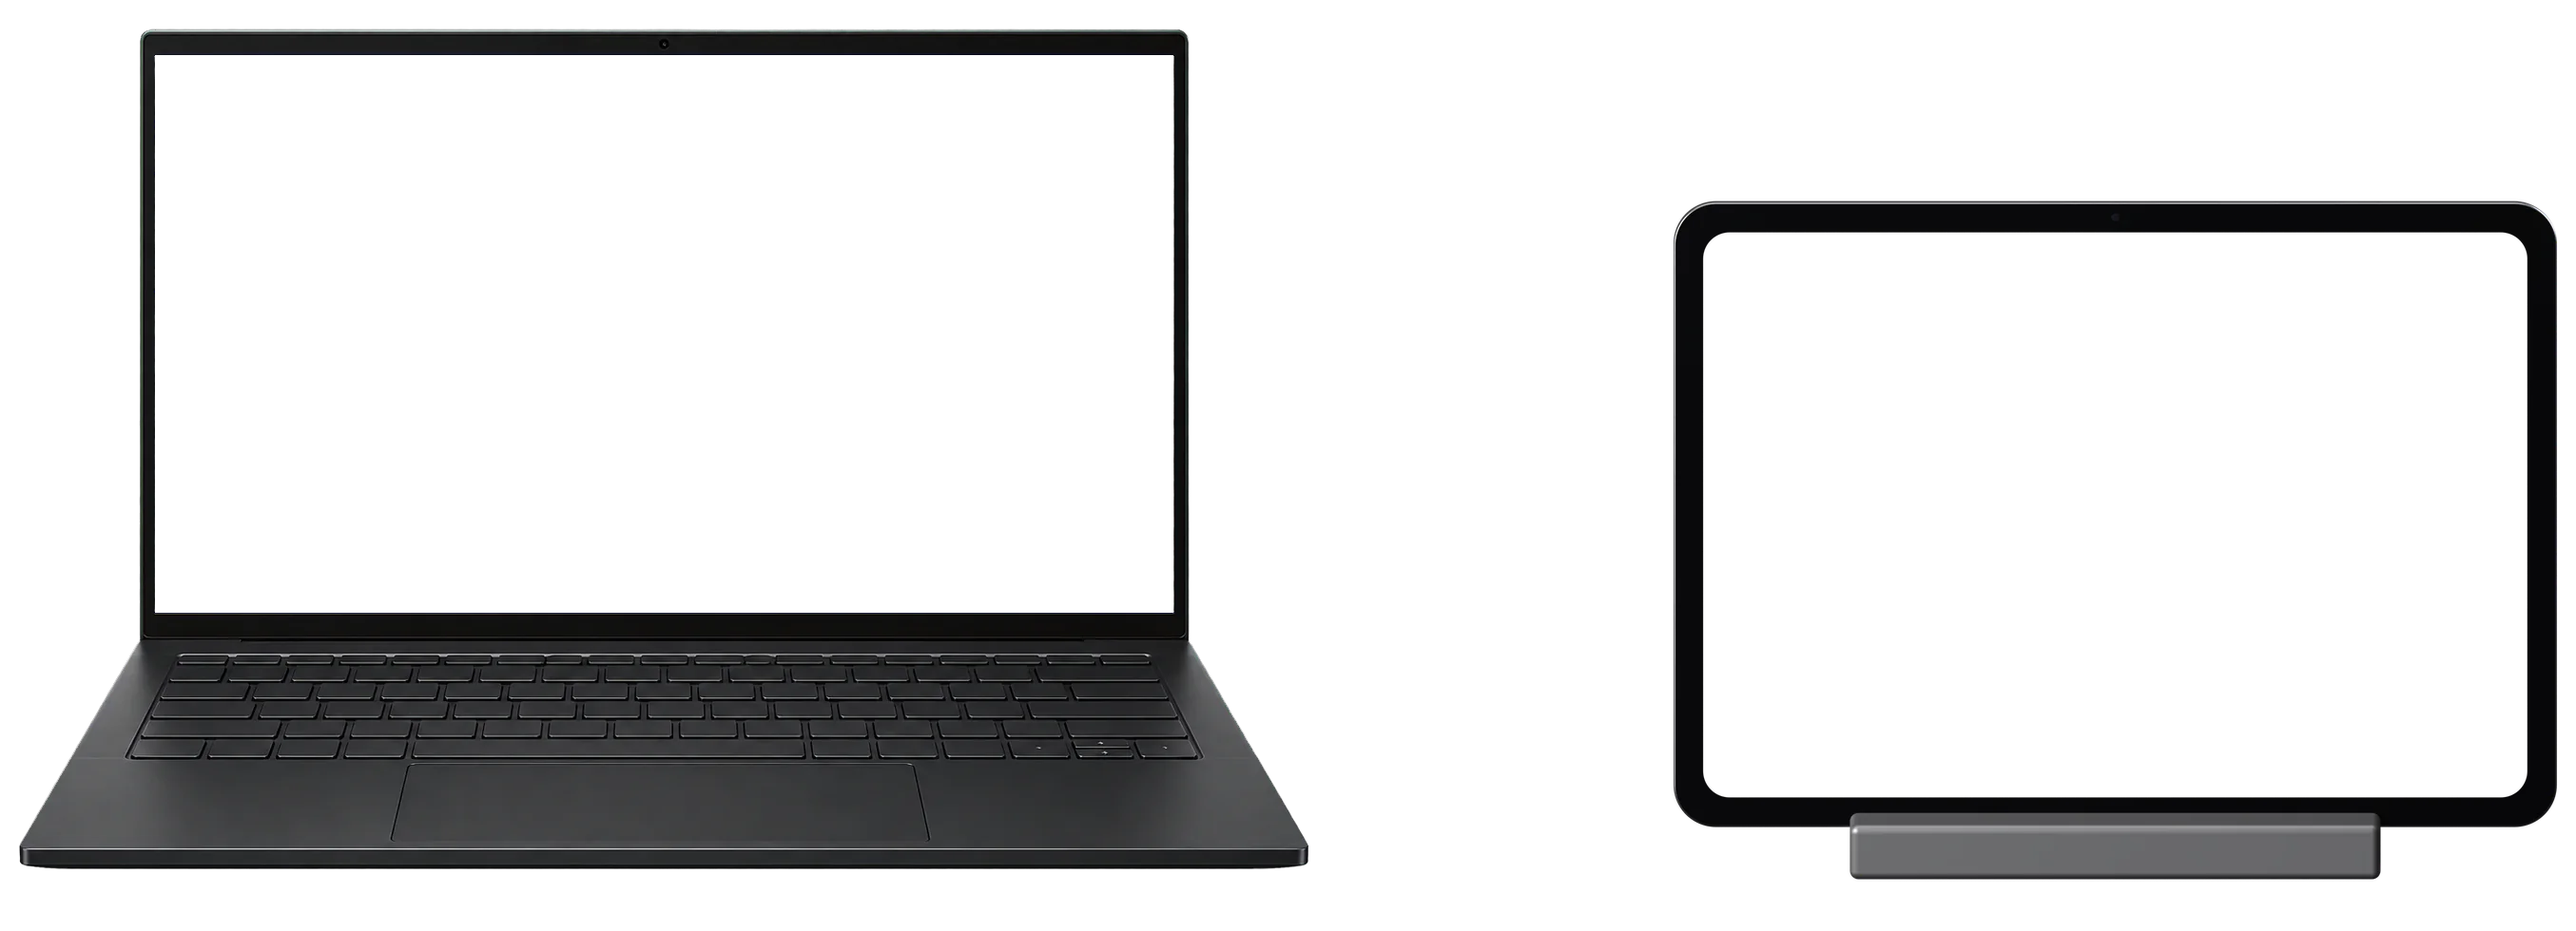
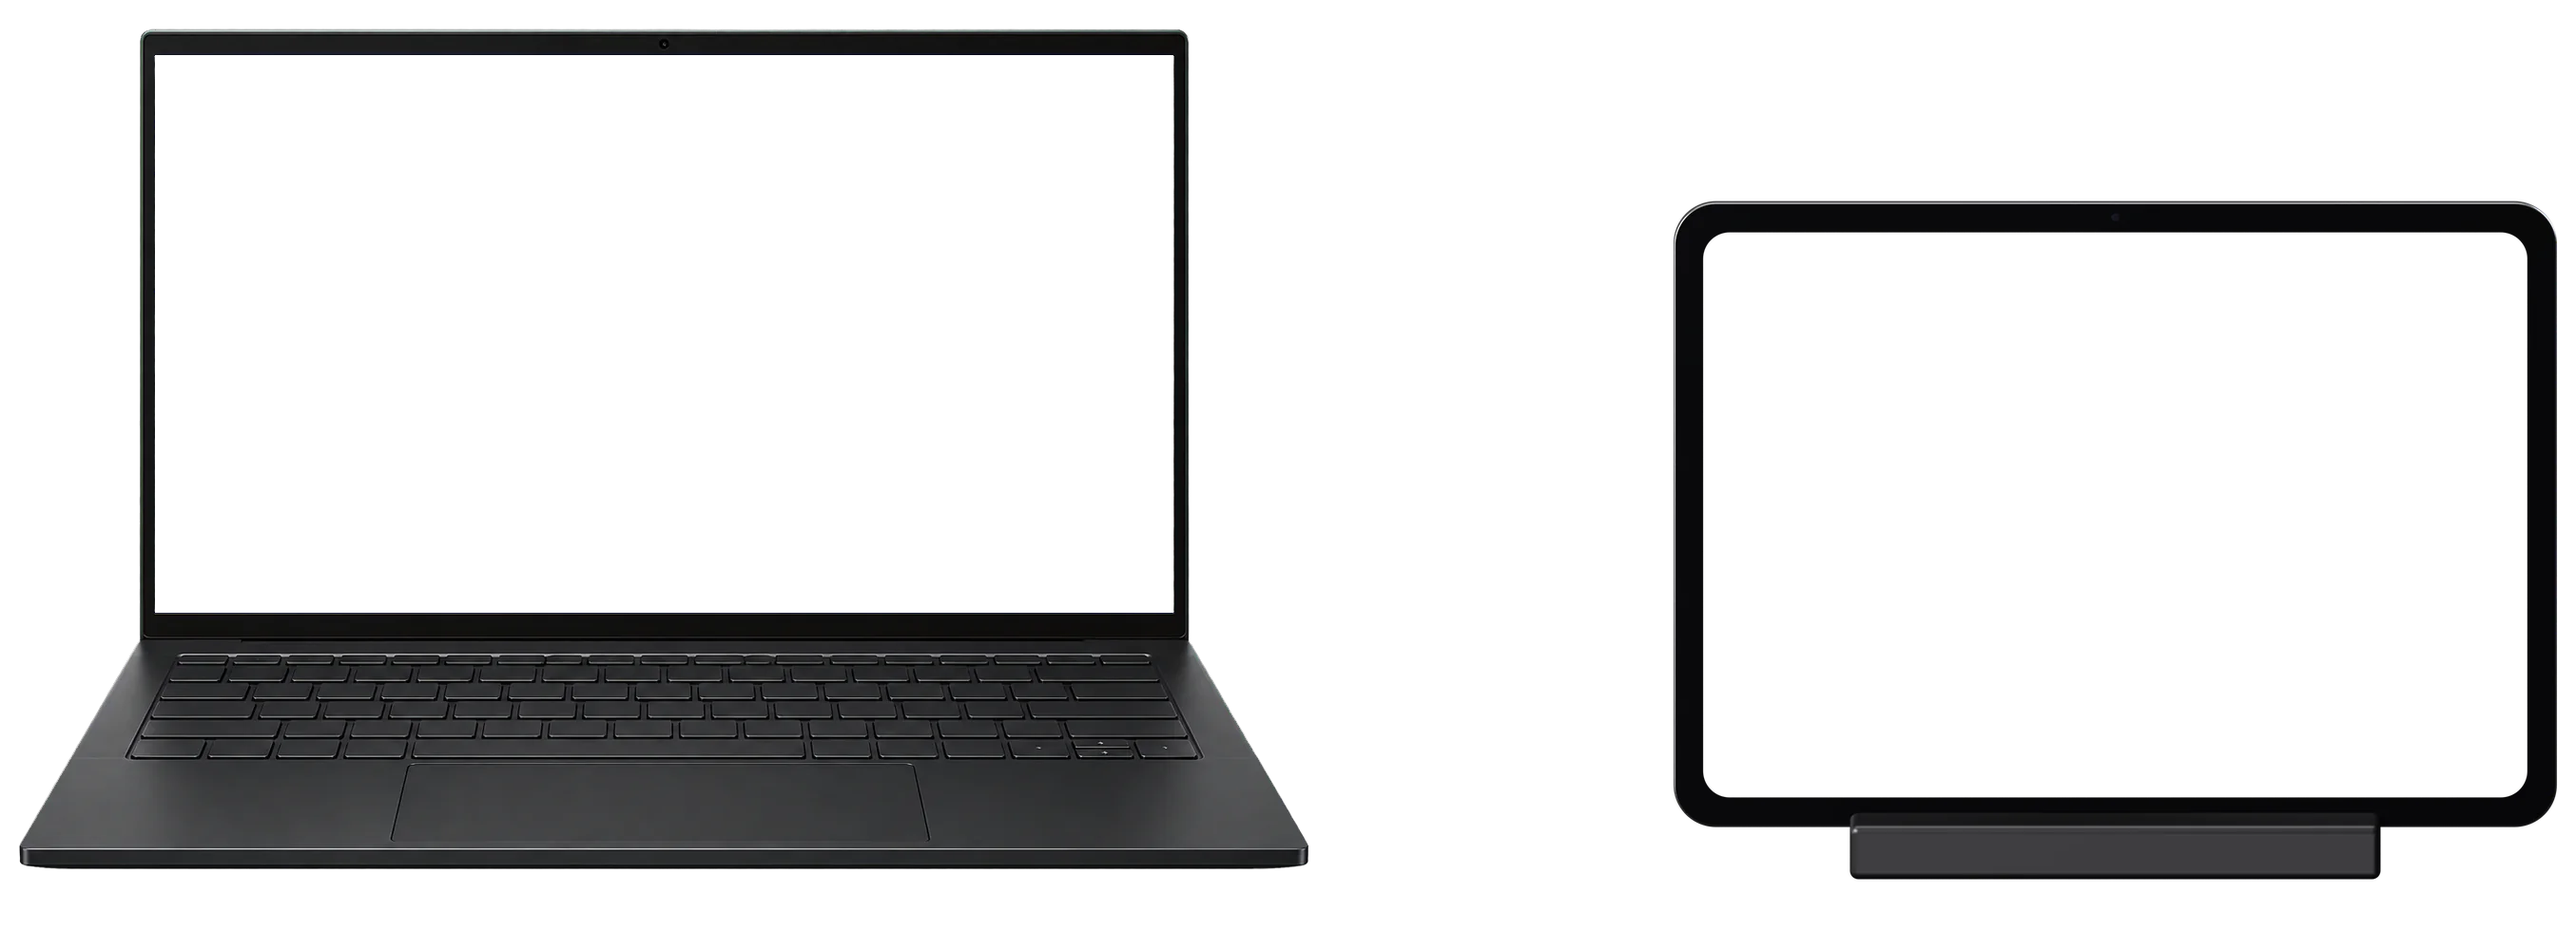
Give the hero's dock the laptop's graphite and settle its Wi-Fi mark
The iPad's dock was a light grey bar beside the dark laptop; it is now graphite aluminium like the laptop. The Wi-Fi mark ripples outward twice when it appears and then rests instead of pulsing forever, and the USB choice uses the standard trident, which reads at its size.

Changed region(s): [[0.7132, 0.8571, 0.9302, 0.949]]

diff --git a/docs/style.css b/docs/style.css
@@ -367,7 +367,8 @@ small { font-size: 0.875rem; }
 .rig-ipad .extend.on { transform: none; }
 .rig-cable { left: 48.911%; top: 52.857%; width: 16.131%; height: auto; transition: opacity 0.5s ease; }
 .stage[data-link="wifi"] .rig-cable { opacity: 0; }
-/* Over Wi-Fi: the cable is gone and a calm signal sits between the devices. */
+/* Over Wi-Fi: the cable is gone and a calm signal sits between the devices.
+   It ripples outward twice as it arrives, then rests, all within five seconds. */
 .rig-air {
   left: 53.6%; top: 46%; width: 3.4%; height: auto;
   fill: none; stroke: var(--text); stroke-width: 3.2; stroke-linecap: round;
@@ -376,11 +377,11 @@ small { font-size: 0.875rem; }
 .rig-air circle { fill: var(--text); stroke: none; }
 .stage[data-link="wifi"] .rig-air { opacity: 1; transform: none; }
 @media (prefers-reduced-motion: no-preference) {
-  .stage[data-link="wifi"] .rig-air path { animation: air 2.4s ease-in-out infinite; }
+  .stage[data-link="wifi"] .rig-air path { animation: air 2s ease-in-out 2; }
   .stage[data-link="wifi"] .rig-air .a2 { animation-delay: 0.25s; }
   .stage[data-link="wifi"] .rig-air .a3 { animation-delay: 0.5s; }
 }
-@keyframes air { 0%, 100% { opacity: 0.35; } 30% { opacity: 1; } 60% { opacity: 0.35; } }
+@keyframes air { 0%, 100% { opacity: 1; } 35% { opacity: 0.3; } }
 @media (prefers-reduced-motion: reduce) {
   .rig .scr, .rig-cable, .rig-air { transition-duration: 0.01s; }
 }

diff --git a/docs/index.html b/docs/index.html
@@ -119,7 +119,7 @@
             <fieldset>
               <legend>Connected over</legend>
               <span class="sw">
-                <input type="radio" name="hero-link" id="hero-usb" value="usb" checked><label for="hero-usb"><svg viewBox="0 0 24 24" aria-hidden="true"><path d="M12 18V3.6M9.6 6.2 12 3.2l2.4 3M12 15.2l-4.6-2.6V10M12 13.4l4.6-2.6V8.2"/><circle cx="7.4" cy="8.7" r="1.4"/><rect x="15.4" y="5.4" width="2.4" height="2.4" rx="0.3" class="fill"/><circle cx="12" cy="19.6" r="1.9" class="fill"/></svg>USB</label>
+                <input type="radio" name="hero-link" id="hero-usb" value="usb" checked><label for="hero-usb"><svg viewBox="0 0 24 24" aria-hidden="true"><path d="M12 19V5M12 15.6 6.4 12.6V9.6M12 13.2l5.6-2.8V8.6"/><path d="M12 1.6 9.4 5.6h5.2Z" class="fill"/><circle cx="6.4" cy="8.2" r="1.7" class="fill"/><rect x="16.1" y="5.4" width="3" height="3" rx="0.3" class="fill"/><circle cx="12" cy="20.2" r="2.1" class="fill"/></svg>USB</label>
                 <input type="radio" name="hero-link" id="hero-wifi" value="wifi"><label for="hero-wifi"><svg viewBox="0 0 24 24" aria-hidden="true"><path d="M2.6 9.4a13.4 13.4 0 0 1 18.8 0M5.8 12.7a8.8 8.8 0 0 1 12.4 0M9 16a4.2 4.2 0 0 1 6 0"/><circle cx="12" cy="19.3" r="1.5" class="fill"/></svg>Wi-Fi</label>
               </span>
             </fieldset>

diff --git a/site-demos/capture/hero_scene.py b/site-demos/capture/hero_scene.py
@@ -236,7 +236,7 @@ for c in (col_ipad, col_cable, col_env):
     scene.collection.children.link(c)
 
 alu = material("alu", (0.55, 0.55, 0.57), metallic=1.0, roughness=0.36, aniso=0.2)
-alu_dock = material("alu-dock", (0.6, 0.6, 0.62), metallic=1.0, roughness=0.55)
+alu_dock = material("alu-dock", (0.17, 0.17, 0.18), metallic=1.0, roughness=0.42, aniso=0.2)
 glass = material("glass", (0.004, 0.004, 0.005), roughness=0.04, coat=1.0)
 camera_dot = material("camera-dot", (0.015, 0.018, 0.03), roughness=0.1, coat=1.0)
 screen = holdout("screen")
@@ -258,7 +258,8 @@ dot.location = (IPAD_W / 2 - 1.1, 0, IPAD_H - bz / 2 - 1.1)
 for obj in (body, glass_face, display, dot):
     obj.matrix_world = ipad_frame @ obj.matrix_basis
 
-# The dock: a low aluminium bar the iPad's bottom edge rests in.
+# The dock: a low graphite aluminium bar, the laptop's finish, that the iPad's
+# bottom edge rests in.
 dock_w, dock_d, dock_h = 150.0, 44.0, 16.0
 dock = box("dock", (dock_w, dock_d, dock_h), alu_dock, col_ipad, bevel=2.4)
 dock.location = (IPAD_LEFT + IPAD_W / 2, 8.0, dock_h / 2)
